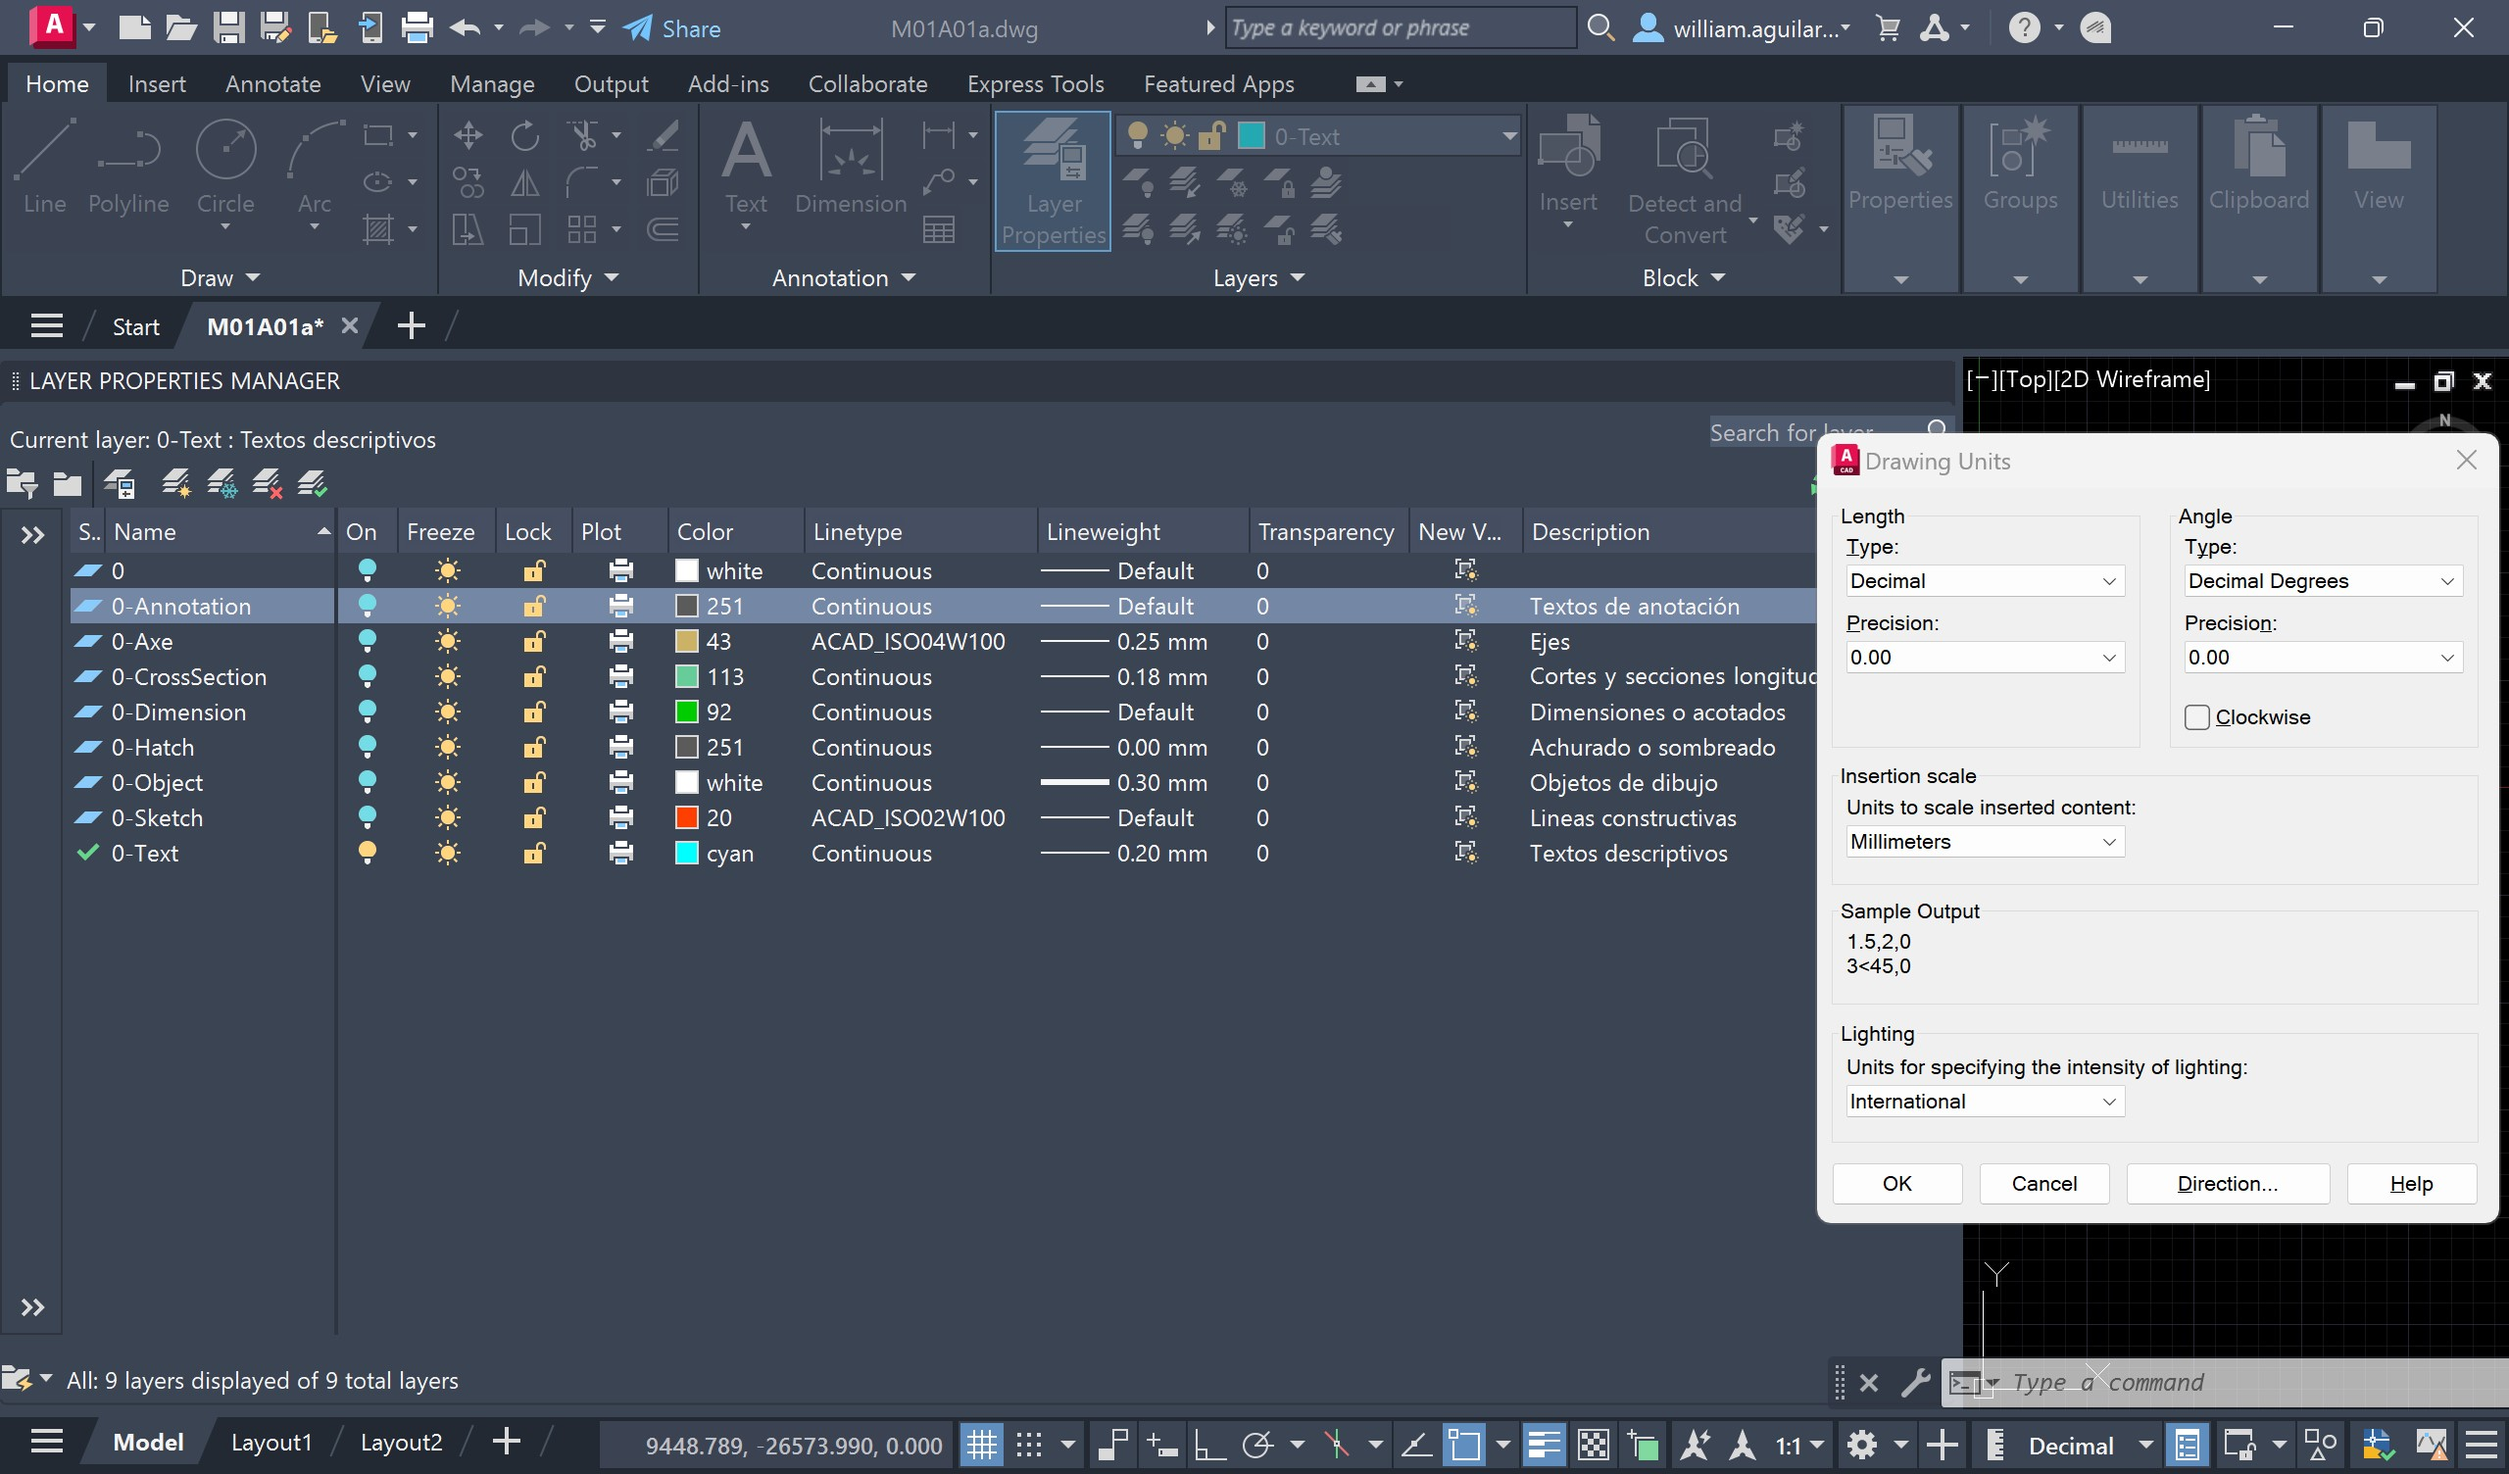
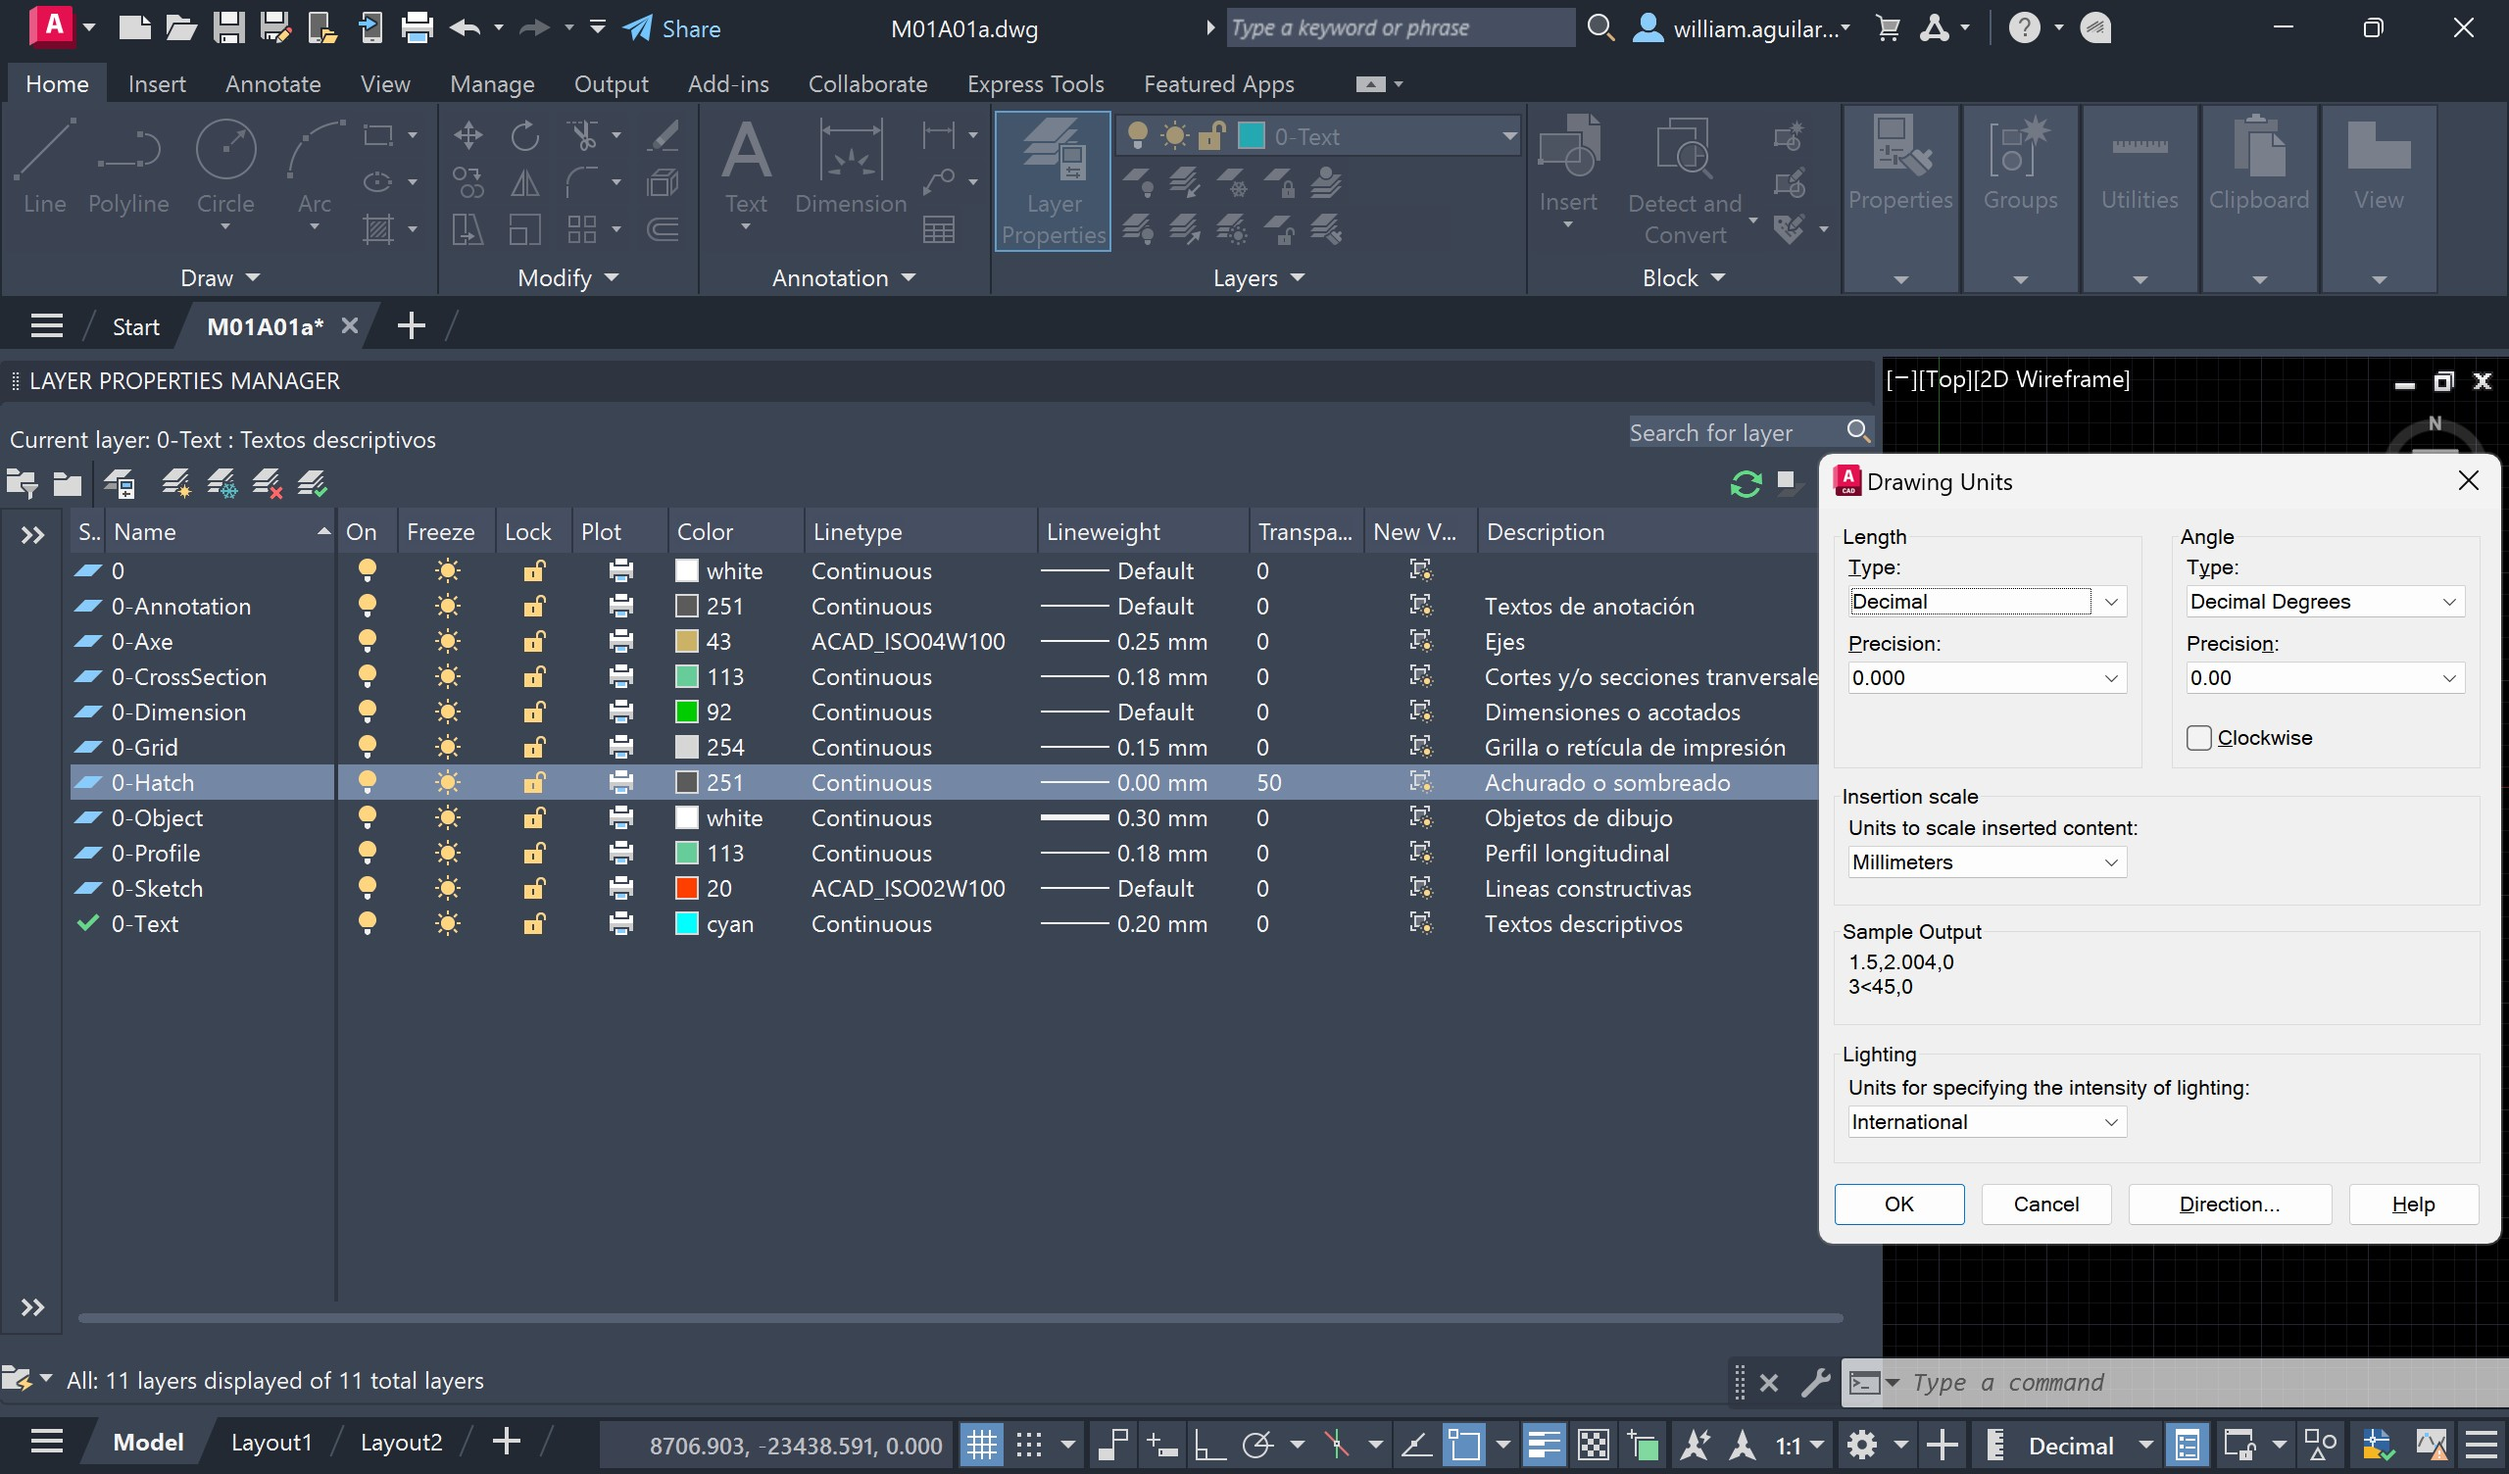
General update.

diff --git a/activity/M01A01a/Readme.md b/activity/M01A01a/Readme.md
@@ -397,9 +397,7 @@ En el libro de Excel [DAPC_AIALayerName.xlsx](../../file/table/DAPC_AIALayerName
 > 
 > En la versión 5 del catálogo AIA, no se encuentran disponibles los nombres de capas para la disciplina W - Distributed Energy (energía distribuida).
 
-Para el desarrollo de curso, utilizaremos las siguientes capas y configuraciones:
-
-> El listado incluye las siguientes sub-capas cero (0) que no se encuentran en el catálogo AIA: 0-Object, 0-Sketch, 0-Axe, 0-Hatch, 0-Dimension, 0-Text, 0-Annotation.
+Para el desarrollo del curso, utilizaremos las siguientes capas y configuraciones:
 
 | Layer - name | Disciplina               | Capa - Descripción                                  |  CAD Color  | CAD Linetype |  CAD Lineweight   |
 |--------------|--------------------------|-----------------------------------------------------|:-----------:|--------------|:-----------------:|
@@ -488,6 +486,21 @@ Para el desarrollo de curso, utilizaremos las siguientes capas y configuraciones
 ## 2. Creación y manejo de capas (layers) en AutoCAD
 
 En AutoCAD, una capa (o layer) es una herramienta de organización que permite agrupar objetos por función o tipo, facilitando la gestión y visualización de dibujos complejos. Piense en capas como hojas transparentes o papeles calcantes donde cada capa contiene un conjunto específico de elementos. Esto ayuda a controlar la visibilidad, el color, el tipo de línea y otras propiedades de los objetos de manera eficiente. Por defecto, todo dibujo nuevo de AutoCAD es creado incluyendo una capa denominada cero (0).
+
+El listado presentado en el numeral anterior, no incluye las siguientes sub-capas genéricas cero (0), debido a que no se encuentran en el catálogo AIA:
+
+| Layer - name   | Disciplina  | Capa - Descripción                | CAD Color | CAD Linetype                       | CAD Lineweight |
+|----------------|-------------|-----------------------------------|:---------:|------------------------------------|:--------------:|
+| 0-Annotation   | (genérica)  | Textos de anotación               |    251    | Continuous                         |    Default     |
+| 0-Axe          | (genérica)  | Ejes                              |    43     | ACAD_ISO04W100 (ISO long-dash dot) |      0.25      |
+| 0-CrossSection | (genérica)  | Cortes y/o secciones tranversales |    113    | Continuous                         |      0.18      |
+| 0-Dimension    | (genérica)  | Dimensiones o acotados            |    92     | Continuous                         |    Default     |
+| 0-Grid         | (genérica)  | Grilla o retícula de impresión    |    254    | Continuous                         |      0.15      |
+| 0-Hatch        | (genérica)  | Achurado o sombreado              |    251    | Continuous                         |      0.00      |
+| 0-Object       | (genérica)  | Objetos de dibujo                 |   white   | Continuous                         |      0.30      |
+| 0-Profile      | (genérica)  | Perfil longitudinal               |    113    | Continuous                         |      0.18      |
+| 0-Sketch       | (genérica)  | Lineas constructivas              |    20     | ACAD_ISO02W100 (ISO dash)          |    Default     |
+| 0-Text         | (genérica)  | Textos descriptivos               |   cyan    | Continuous                         |      0.20      |
 
 1. Cree un nuevo dibujo usando la plantilla métrica _acadiso.dwt_, guarde como _/file/cad/M01A01a.dwg_ y con el comando _UNITS_, establezca longitud tipo _Decimal_, ángulos en _grados_, precisiones en 2 decimales y unidades de escala de contenido insertado en _milímetros_. En el menú _Home_, seleccione en la pestaña _Layers_ la opción _Layer Properties_ o en el _Command_ ingrese el comando _**LAYER**_. Como observa, por defecto se ha creado la capa cero (0) en color blanco, con tipo de línea contínua, ancho por defecto y sin transparencia (valor de 0 a 100, donde 100 es completamente transparente).
 
